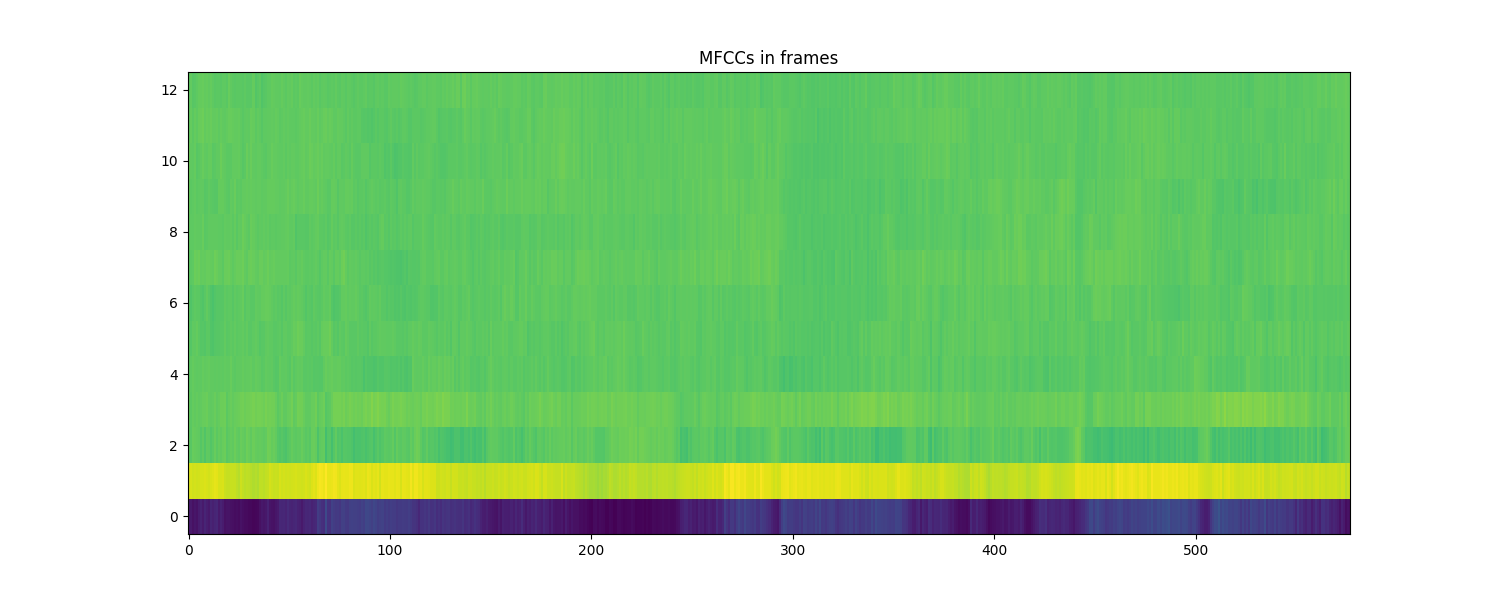
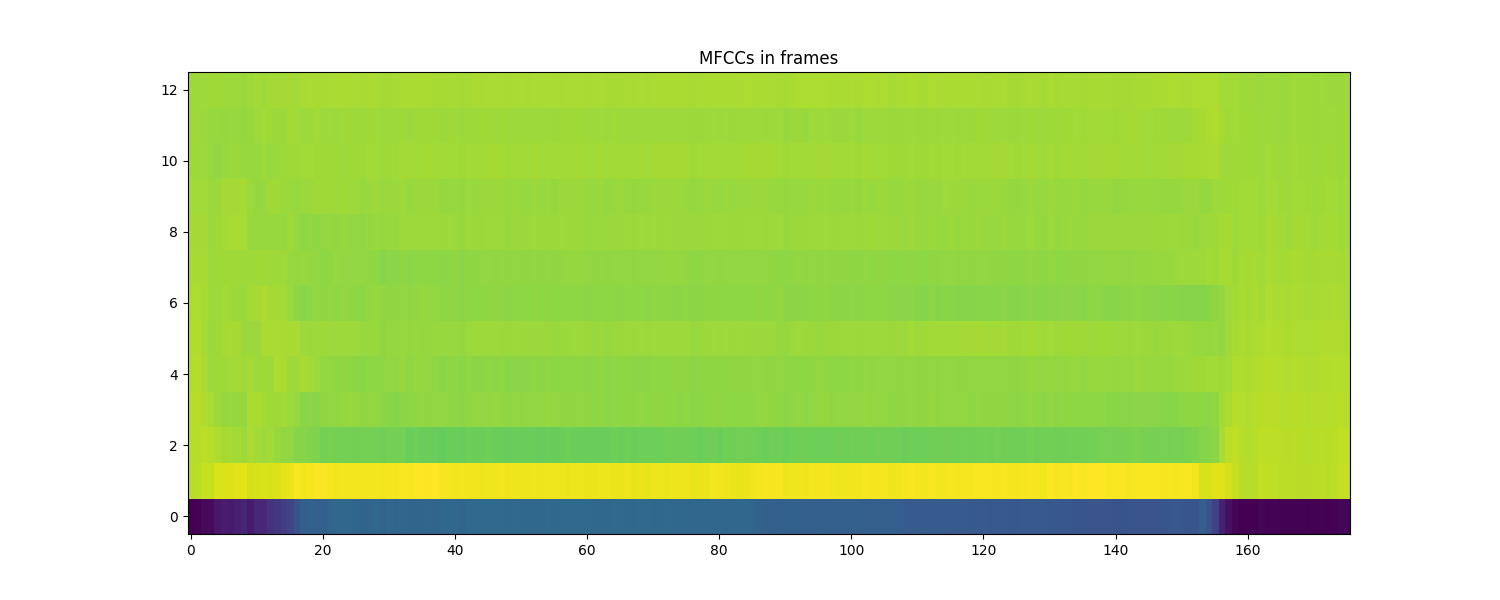
replaced ch1 images from puma to sheep

diff --git a/thesis/chapters/1_features/features.tex b/thesis/chapters/1_features/features.tex
@@ -12,7 +12,7 @@ Mediante su análisis se pueden detectar con facilidad los instantes de tiempo d
 \begin{figure}[!h]
     \centering
     \includegraphics[width=\textwidth]{oscillogram.png}
-    \caption{Oscilograma de una vocalización, de 6 segundos de duración, de un individuo de la especie \textit{puma concolor}.}
+    \caption{Oscilograma de una vocalización, de 2 segundos de duración, de un individuo de la especie \textit{ovis orientalis aries} (oveja doméstica).}
     \label{img:oscillogram}
 \end{figure}
 
@@ -27,7 +27,7 @@ Esta transformada puede ser igualmente computada sobre pequeñas tramas de tiemp
 \begin{figure}[!h]
     \centering
     \includegraphics[width=\textwidth]{spectrum+spectrogram.png}
-    \caption{Representaciones de la transformada de Fourier de la señal de la figura~\ref{img:oscillogram}: (a) Espectro del segundo 2. (b) Espectrograma.}
+    \caption{Representaciones de la transformada de Fourier de la señal de la figura~\ref{img:oscillogram}: (a) Espectro de una trama. (b) Espectrograma.}
     \label{img:spectrum+spectrogram}
 \end{figure}
 

diff --git a/code/sound_visualizations.py b/code/sound_visualizations.py
@@ -4,16 +4,17 @@ from pylab import plot, show, figure, imshow
 
 plt.rcParams['figure.figsize'] = (15, 6)
 
-audio = MonoLoader(filename='/home/eddy/Downloads/sonidos animales/cougar/cougar4.wav')()
+audio = MonoLoader(
+    filename='/media/eddy/Erato/Zchool/Computer Science/5º/X Semestre/Tesis/Incoming/avisoft.com/sounds/sheep.wav')()
 plot(audio)
-plt.title("Puma concolor")
+plt.title("Ovis orientalis aries")
 show()
 
 w = Windowing(type='hamming')
 spectrum = Spectrum()  # FFT() would return the complex FFT, here we just want the magnitude spectrum
 mfcc = MFCC()
 
-frame = audio[1 * 44100: 1 * 44100 + 1024]
+frame = audio[20000: 20000 + 1024]
 spec = spectrum(w(frame))
 
 fig = figure(figsize=(15, 6))
@@ -38,7 +39,7 @@ specs = essentia.array(specs).T
 mfccs = essentia.array(mfccs).T
 
 ax = fig.add_subplot(1, 2, 2)
-ax.imshow(specs[:30, :], aspect='auto', origin='lower', interpolation='none')
+ax.imshow(specs[:160, :], aspect='auto', origin='lower', interpolation='none')
 ax.set_title('(b)')
 
 fig.show()
